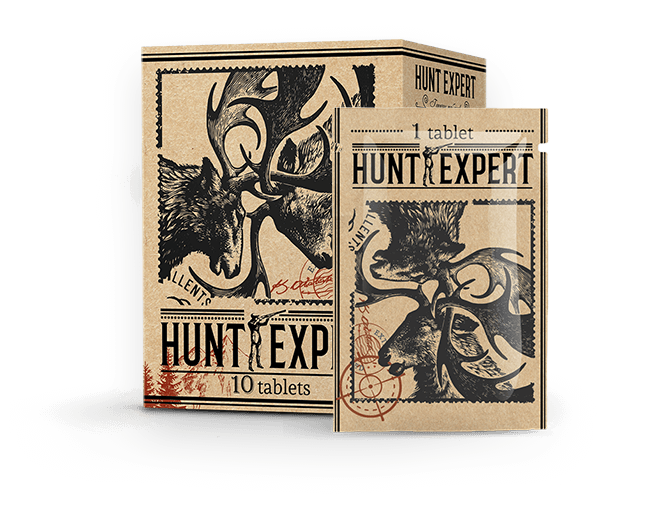
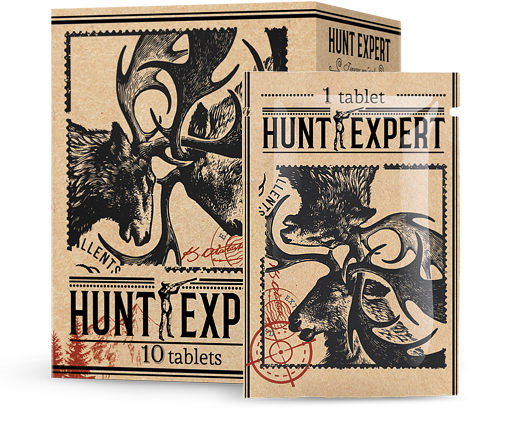
thursday mas

diff --git a/app/scss/_package.scss b/app/scss/_package.scss
@@ -30,9 +30,9 @@
 	position: relative;
 }
 .package-product {
-	max-width: 350px;
-    left: -35px;
-    top: 0;
+	max-width: 270px;
+    left: 15px;
+    top: 25px;
 }
 .package-wrap__item img {
 	background-position: center center;
@@ -71,6 +71,9 @@
 	    max-width: 260px;
 	    left: -10px;
 	    top: 25px;
+	}
+	.package-product {
+	    left: 15px;
 	}
 	.package-wrap__result {
 		width: 320px;
